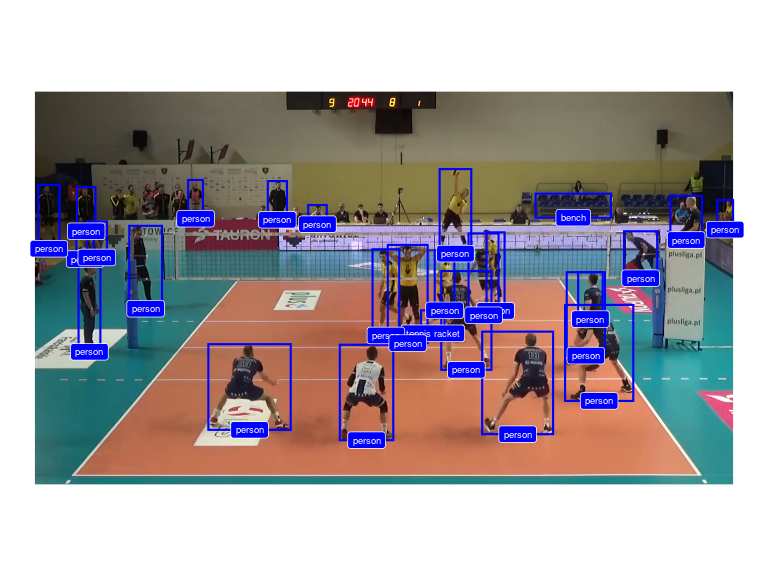
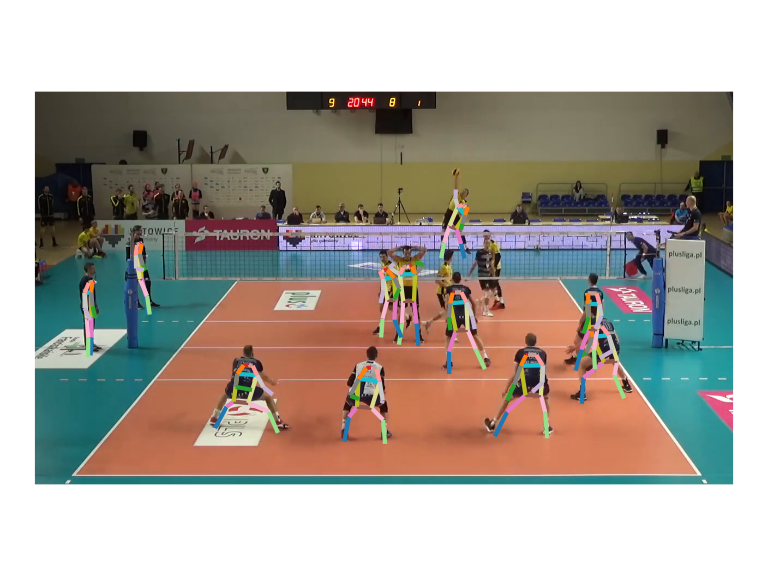
readme

diff --git a/README.md b/README.md
@@ -36,29 +36,43 @@ specifically for detecting volleyballs.
 This implementation draws heavily from
 [WongKinYiu/yolov7](https://github.com/WongKinYiu/yolov7).
 
+The first time you use `ovmlpy`, it will download and set up Python in a
+virtual environment for use by this package. The first time use a new
+type of network, it will also download the associated network weights
+file.
+
 ## Example
+
+Construct the network. The first time this function is run for each type
+of network, it will download and cache the network weights file (\~70MB,
+depending on network version).
 
 ``` r
 library(ovmlpy)
-img <- ovml_example_image()
-ovml_ggplot(img)
-```
-
-<img src="man/figures/README-ex1-1.png" width="100%" />
-
-Construct the network. The first time this function is run, it will
-download and cache the network weights file (\~70MB, depending on
-network version).
-
-``` r
 dn <- ovml_yolo()
 ```
 
-Now we can use the network to detect objects in our image:
+Now we can use the network to detect objects in an image:
 
 ``` r
+img <- ovml_example_image()
 dets <- ovml_yolo_detect(dn, img)
 ovml_ggplot(img, dets)
+```
+
+<img src="man/figures/README-ex2-1.png" width="100%" />
+
+Or detect human poses (experimental!):
+
+``` r
+dn2 <- ovml_yolo("7-w6-pose")
+dets2 <- ovml_yolo_detect(dn2, img)
+
+library(ggplot2)
+library(ggsci)
+ovml_ggplot(img) +
+    geom_segment(data = dets2, aes(x1, y1, xend = x2, yend = y2, col = segment), size = 1.5) +
+    scale_color_d3(palette = "category20", guide = "none")
 ```
 
 <img src="man/figures/README-ex3-1.png" width="100%" />
